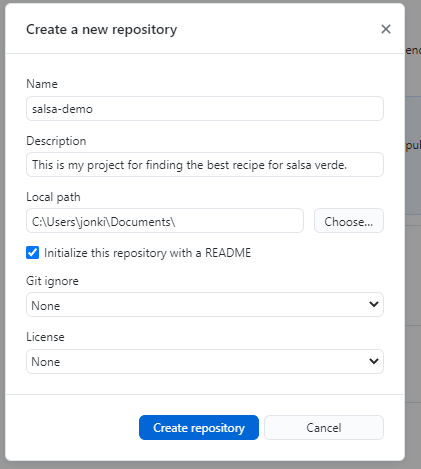
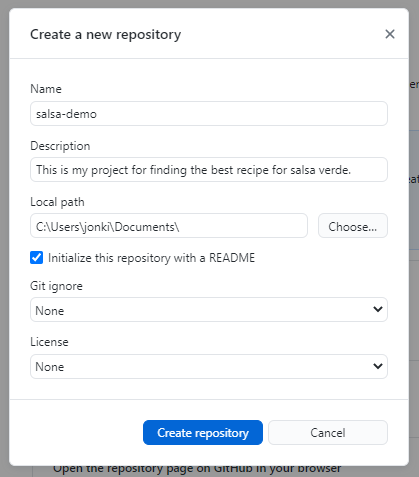
exercise 1 top

diff --git a/workshop/exercise-1.md b/workshop/exercise-1.md
@@ -53,7 +53,7 @@ Once you've finished with the fields, you're ready to create a repository. Go ah
 
 I'm going to use a demo project to help illustrate some of the exercises. My demo will be for a research project focusing on finding the best recipe for salsa verde. I'm going to name the demo repository "salsa-demo" and use the description: "This is my project for finding the best recipe for salsa verde". I'm going to initialize it with a README, but no .gitignore or license.
 
-<img src="..\assets\images\new-demo.png" alt="Creating a new repository for my demo project." style="max-width:404px;display:block">
+<img src="..\assets\images\new-demo.png" alt="Creating a new repository for my demo project." style="max-width:419px;display:block">
 
 ## B) Explore the local repository
 
